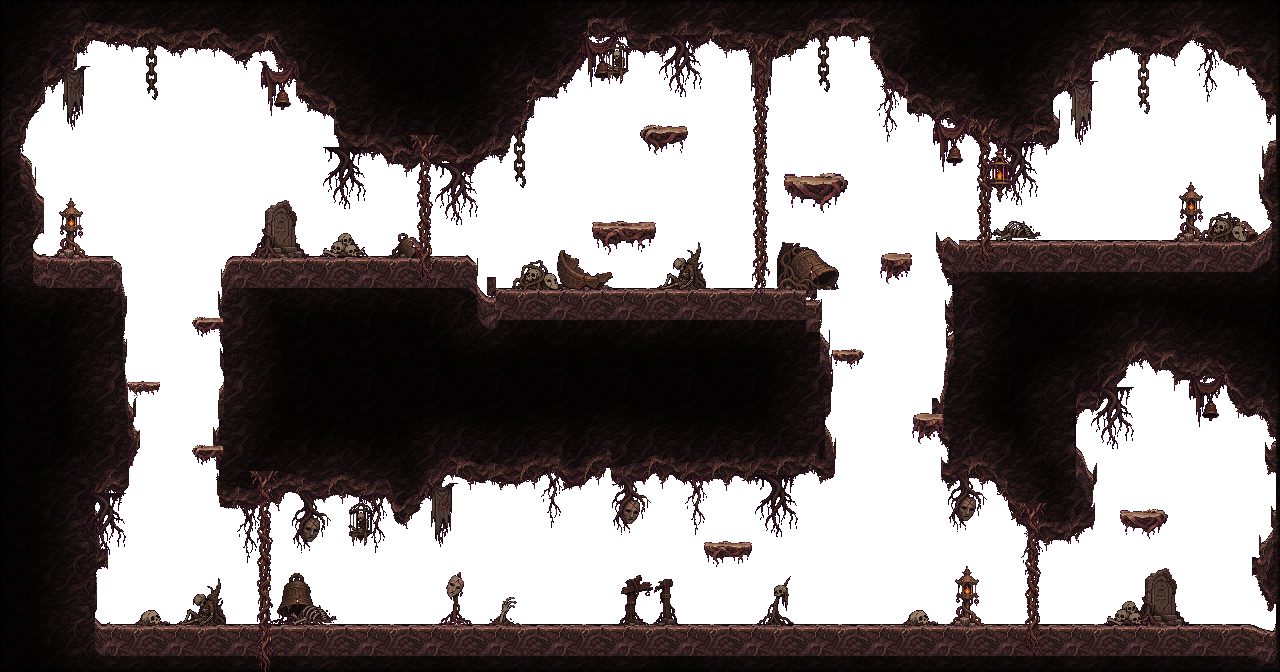
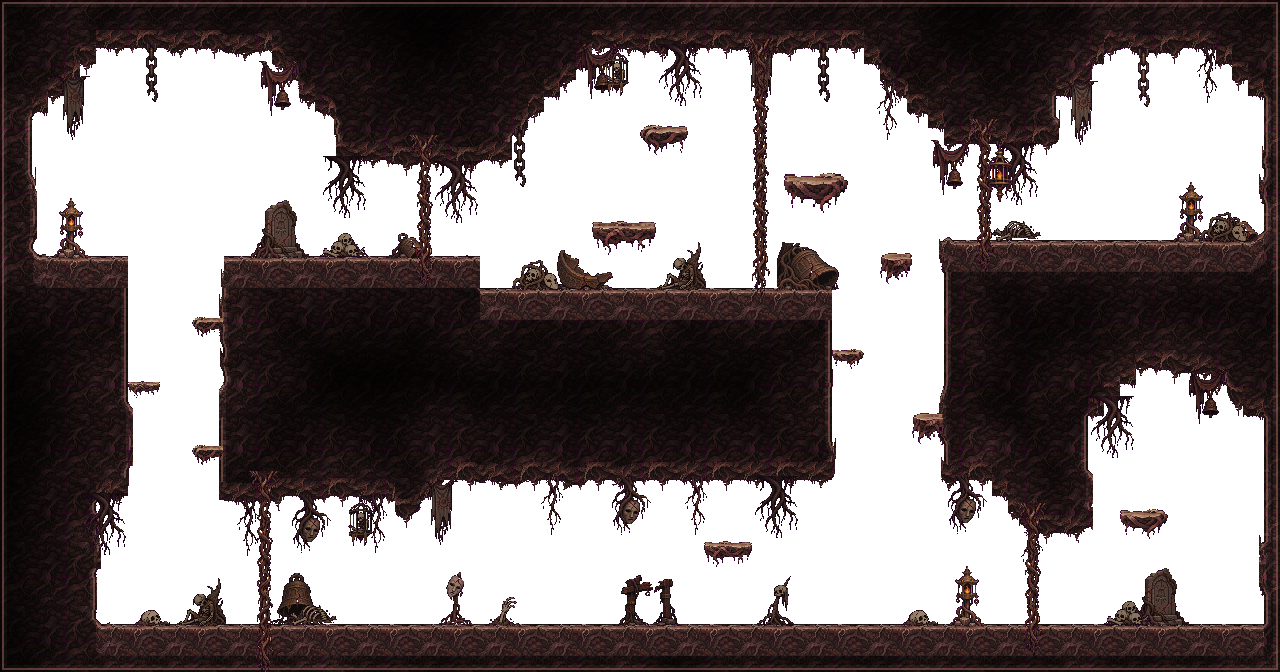
Hiệu ứng chiêu quái do ChatGPT vẽ (đạn kèn đồng, cầu năng lượng hổ phách, sóng siêu âm, sóng chấn động đập chuông) thay hình vẽ tạm; vách đá: không khoét vào ô va chạm nữa (hết bám vào không khí), mép đá có viền sáng ấm dễ thấy chỗ bám
Claude-Session: https://claude.ai/code/session_01W9tcvqtq7TKxDYHKwgQMJZ

diff --git a/tieng-vong-cuoi-cung/game/phong-demo/index.html b/tieng-vong-cuoi-cung/game/phong-demo/index.html
@@ -297,29 +297,33 @@ function cungSong(x, y, r, huong, mau, a, day){
   ctx.globalAlpha = 1;
 }
 function nongQuai(q){ const n = q.def.chieu.nong || [0, -40], fx = q.x + q.w / 2, fy = q.y + q.h; return [fx + n[0] * E.TL * -q.face, fy + n[1] * E.TL]; }
+// sprite hiệu ứng chiêu (ChatGPT vẽ): art/hieu-ung/chieu-quai/<ten>.png – 6 ô 96×96, hướng TRÁI
+const FXQ = {}; for (const n of ['ken', 'cau', 'vai', 'tan']){ const im = new Image(); im.src = '../../art/hieu-ung/chieu-quai/' + n + '.png'; FXQ[n] = im; }
+const FX_CUA = {dan:'ken', nang_luong:'cau', song:'vai', chan:'tan'};
+function veFx(ten, o, x, y, phai, k, a){
+  const im = FXQ[ten]; if (!im || !im.complete || !im.naturalWidth) return;
+  const S = 96, w = S * (k || 1); ctx.save(); ctx.globalAlpha = a ?? 1; ctx.translate(Math.round(x), Math.round(y)); if (phai) ctx.scale(-1, 1);
+  ctx.imageSmoothingEnabled = false; ctx.drawImage(im, o * S, 0, S, S, -w / 2, -w / 2, w, w); ctx.restore();
+}
 function veChieu(cam){
   const f = E.S.frame;
-  for (const q of E.QUAI){   // tụ / báo trước ở miệng
+  for (const q of E.QUAI){   // tụ / lóe ở miệng trước khi bắn
     const ch = q.def.chieu; if (q.dead || !ch || q.st !== 'danh' || !ch.khung_ban || (q.kDanh ?? 0) >= ch.khung_ban) continue;
-    const [x, y] = nongQuai(q), p = Math.min(1, q.t / 40);
-    if (ch.ve === 'nang_luong'){ chamTron(x - cam, y, 8 + p * 18, ch.toi, 0.45); chamTron(x - cam, y, 4 + p * 11, ch.mau, 0.95);
-      for (let i = 0; i < 4; i++){ const g = f * 0.2 + i * 1.57, r = 30 - p * 22; chamTron(x - cam + Math.cos(g) * r, y + Math.sin(g) * r, 3, ch.mau, 0.8); } }
-    else if (ch.ve === 'song'){ cungSong(x - cam, y, 8 + (f % 12), -q.face * -1, ch.mau, 0.5); }
-    else { chamTron(x - cam, y, 3 + p * 5, ch.mau, 0.9); }
+    const [x, y] = nongQuai(q), ten = FX_CUA[ch.ve] || 'ken', p = Math.min(1, q.t / 40);
+    if (ten === 'vai') veFx('vai', 0, x - cam, y, q.face > 0, 0.6 + p * 0.4, 0.5 + p * 0.5);
+    else veFx(ten, (f >> 3) & 1, x - cam, y, q.face > 0, ten === 'cau' ? 0.7 + p * 0.6 : 0.9, 0.6 + p * 0.4);
   }
   for (const b of E.DAN){
-    const x = b.x - cam, y = b.y, ch = b.ch, h = b.vx > 0 ? 1 : -1;
-    if (ch.ve === 'song'){ for (let k = 0; k < 3; k++) cungSong(x - h * k * 18, y, 30 + k * 4, h, k ? ch.toi : ch.mau, 0.95 - k * 0.25, 3); }
-    else if (ch.ve === 'nang_luong'){ for (let k = 1; k < 6; k++) chamTron(x - h * k * 12, y, 16 - k * 2.5, ch.toi, 0.55 - k * 0.08); chamTron(x, y, 18, ch.toi, 0.55); chamTron(x, y, 12, ch.mau, 1); chamTron(x + h * 3, y - 3, 5, '#ffffff', 0.9); }
-    else { for (let k = 1; k < 5; k++) chamTron(x - h * k * 10, y, 8 - k * 1.5, ch.toi, 0.65); chamTron(x, y, 10, ch.toi, 0.9); chamTron(x, y, 6, ch.mau, 1); chamTron(x + h * 2, y - 2, 2, '#ffffff', 1); }
+    const ten = FX_CUA[b.ch.ve] || 'ken', phai = b.vx > 0;
+    if (ten === 'vai') veFx('vai', Math.min(3, (b.t / 10) | 0), b.x - cam, b.y, phai, 1.3);
+    else veFx(ten, 2 + ((f >> 2) & 1), b.x - cam, b.y, phai, ten === 'cau' ? 1.25 : 1.0);
   }
   for (const n of E.NO){
-    const ch = n.ch || {}, x = n.x - cam, y = n.y;
-    if (n.dat && ch.toc_song){   // sóng đất 2 phía + đá vụn
-      const r = n.t * ch.toc_song, a = Math.max(0, 1 - n.t / 44);
-      for (const h of [-1, 1]){ for (let k = 0; k < 3; k++){ const xx = x + h * (r - k * 10); ctx.globalAlpha = a * (1 - k * 0.3); ctx.fillStyle = k ? ch.toi : ch.mau; ctx.fillRect(Math.round(xx / 4) * 4 - 6, y - 12 - (2 - k) * 12, 12, 12 + (2 - k) * 12); } }
-      ctx.globalAlpha = 1; if (n.t < 14) chamTron(x, y - 6, 10 + n.t * 3, ch.mau, 0.35 * (1 - n.t / 14));
-    } else { const a = Math.max(0, 1 - n.t / 24); chamTron(x, y, 4 + n.t * 1.2, ch.toi || '#ffbe50', a * 0.6); chamTron(x, y, 2 + n.t * 0.6, ch.mau || '#fff2c5', a); }
+    const ch = n.ch || {}, ten = FX_CUA[ch.ve] || 'ken';
+    if (n.dat && ch.toc_song){   // sóng chấn động chạy 2 phía mặt đất
+      const r = n.t * ch.toc_song, o = Math.min(5, (n.t / 8) | 0), a = Math.max(0, 1 - n.t / 46);
+      veFx('tan', o, n.x - r - cam, n.y - 34, false, 1.4, a); veFx('tan', o, n.x + r - cam, n.y - 34, true, 1.4, a);
+    } else veFx(ten, 4 + Math.min(1, (n.t / 12) | 0), n.x - cam, n.y, false, ten === 'cau' ? 1.2 : 1.0, Math.max(0, 1 - n.t / 26));
   }
 }
 function veQuai(q, cam){

diff --git a/tieng-vong-cuoi-cung/tools/phong-demo/tokien.py b/tieng-vong-cuoi-cung/tools/phong-demo/tokien.py
@@ -63,11 +63,12 @@ ganGoc = ndimage.binary_dilation(solid0 & ~(np.roll(solid0, 1, 1) & np.roll(soli
 giu = dai & ~ganGoc
 mask = np.where(giu, solid0, mask)
 mask = np.where(solid0 & (ndimage.distance_transform_edt(solid0) > 12), True, mask)
-mask = np.where(~solid0 & (ndimage.distance_transform_edt(~solid0) > 12), False, mask)
+mask = np.where(~solid0 & (ndimage.distance_transform_edt(~solid0) > 5), False, mask)
+mask |= solid0   # KHÔNG BAO GIỜ khoét vào ô va chạm: mép đá nhìn thấy luôn trùm ra ngoài hộp va chạm (bám tường không bị 'bám vào không khí')
 _l, _n = ndimage.label(mask); _s = ndimage.sum(np.ones_like(_l), _l, range(1, _n + 1)); mask &= ~np.isin(_l, np.nonzero(_s < 600)[0] + 1)   # bỏ đảo đá vụn
 _l, _n = ndimage.label(~mask); _s = ndimage.sum(np.ones_like(_l), _l, range(1, _n + 1)); mask |= np.isin(_l, np.nonzero(_s < 600)[0] + 1)    # lấp lỗ nhỏ
 d = ndimage.distance_transform_edt(mask)                       # khoảng cách tới khoảng trống (px)
-toi = np.clip(1 - d / 70.0, 0.0, 1.0) ** 1.4                    # sáng ở mép, chìm dần vào đen
+toi = np.clip(1 - d / 120.0, 0.0, 1.0) ** 1.2                    # sáng ở mép, chìm dần vào đen
 toi = toi * (0.85 + 0.15 * nhieu(14)) 
 k = (0.10 + 0.70 * toi) * 0.95
 YY, XX = np.mgrid[0:H, 0:W]
@@ -76,8 +77,12 @@ tex = fa[YY % 64, XX % 64, :3]
 a[..., :3] = np.clip(tex * k[..., None], 0, 255).astype(np.uint8)
 a[..., 3] = np.where(mask, 255, 0)
 # mép: dải tối 2px + viền trên/dưới (cỏ rễ, rủ trần) đặt theo mép THẬT
+sang = mask & ~ndimage.binary_erosion(mask, iterations=7)          # dải mép sáng rõ để thấy chỗ bám
+a[sang, :3] = np.clip(a[sang, :3].astype(float) * 1.35 + 6, 0, 255).astype(np.uint8)
 vien = mask & ~ndimage.binary_erosion(mask, iterations=2)
 a[vien, :3] = (a[vien, :3] * .55).astype(np.uint8)
+e2 = ndimage.binary_erosion(mask, iterations=2); ria = e2 & ~ndimage.binary_erosion(mask, iterations=4)   # đường viền sáng ấm (mép đá bắt ánh đèn)
+a[ria, :3] = np.clip(a[ria, :3].astype(float) * 0.5 + np.array([92, 58, 50]) * 0.9, 0, 255).astype(np.uint8)
 canh = Image.fromarray(a)
 topA, ceilA = np.array(top), np.array(ceil)
 for x in range(0, W, 1):
